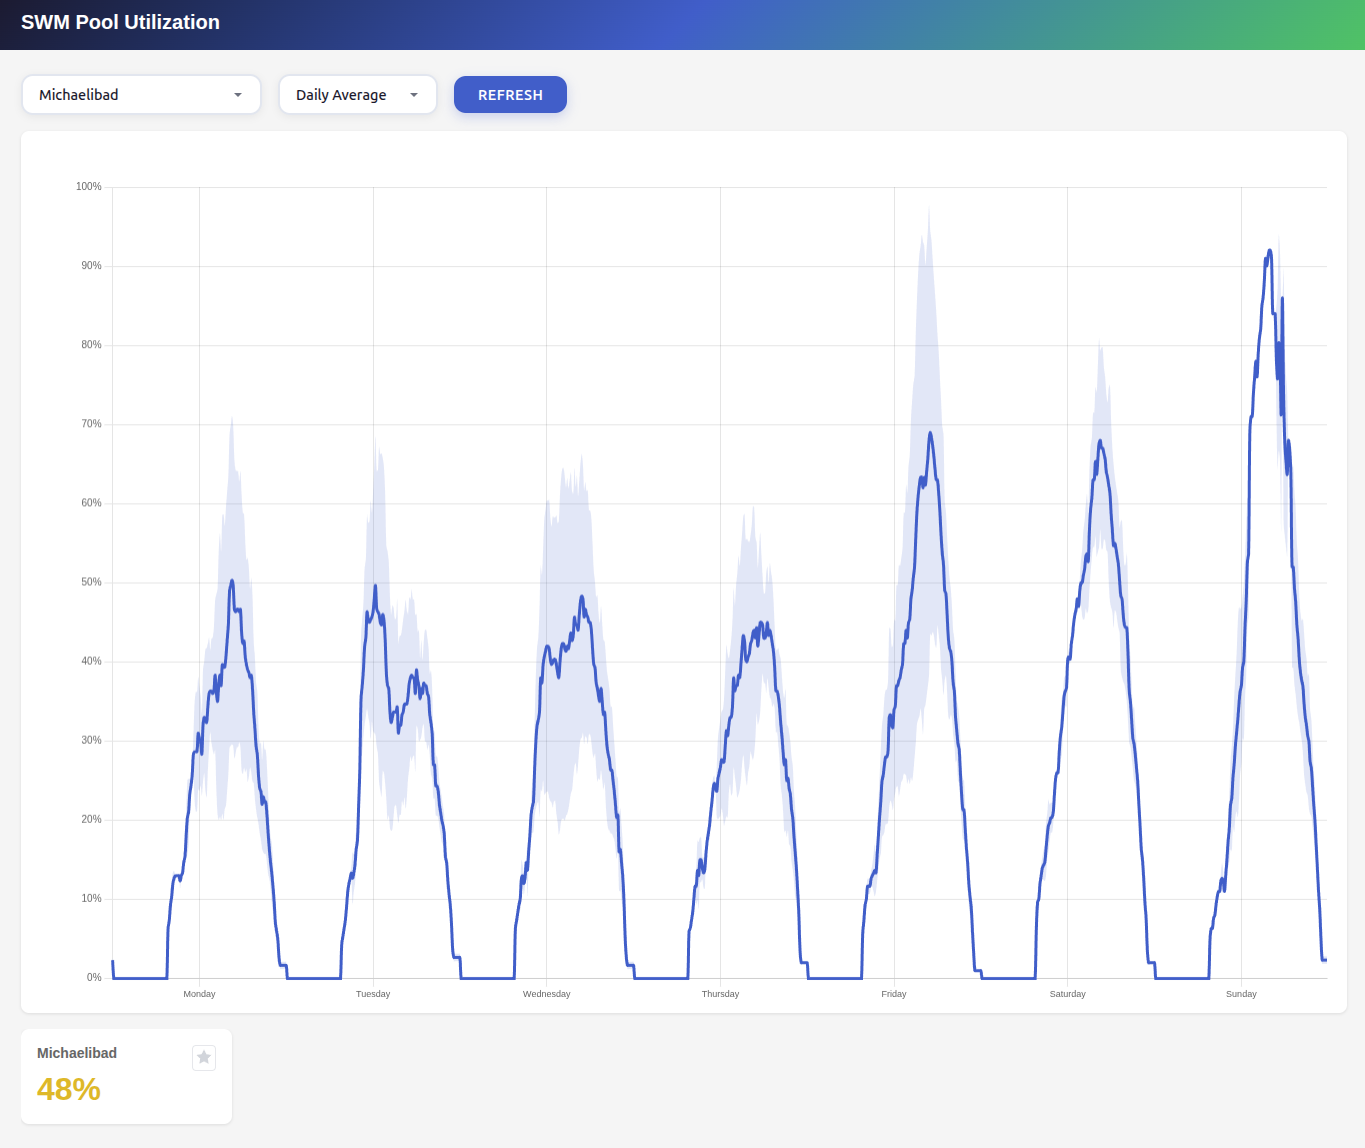
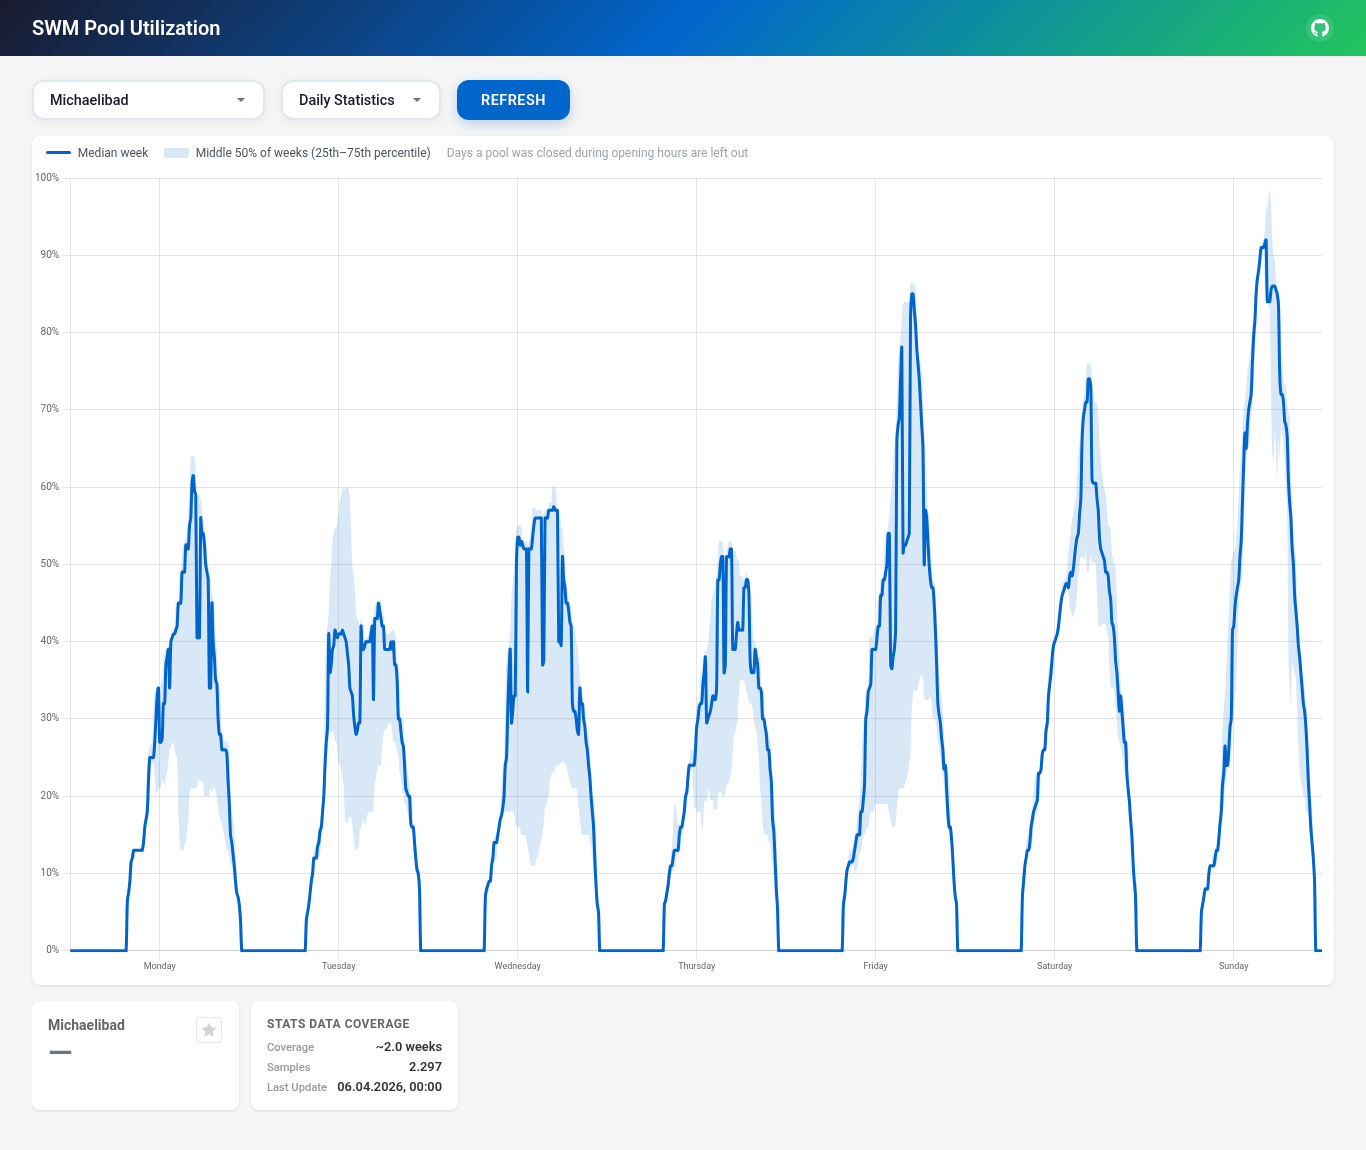
README: new screenshots of the current UI on the early-April data; histogram axis label fix
- Dashboard: 3 days, moved back to 10-12 April 2026 with the time navigator
  (hover Fri 16:40 as in the old image)
- Heatmap: readings up to 15 April 2026, per-pool colours, pointer on the
  Dante winter pool with its histogram in the row neighbour's slot
- Daily statistics: Michaelibad, readings up to 5 April 2026
- PoolHistogram: keep the right end of the x axis free for "% full", so a
  tick there (e.g. 30) no longer overlaps it

diff --git a/frontend/src/components/PoolHistogram.vue b/frontend/src/components/PoolHistogram.vue
@@ -91,9 +91,14 @@ const bars = computed(() => counts.value.flatMap((c, i) => {
   }]
 }))
 
+// Room kept free at the right end of the axis for the "% full" label, so a tick
+// there (e.g. 30 when the bars end at 30%) does not run into it.
+const UNIT_LABEL_W = 34
+
 const xTicks = computed(() => {
   const step = domainMax.value <= 20 ? 2 : domainMax.value <= 50 ? 5 : 10
   return Array.from({ length: Math.floor(domainMax.value / step) + 1 }, (_, i) => i * step)
+    .filter(t => X(t) <= width.value - PAD.r - UNIT_LABEL_W)
 })
 
 const markers = computed(() => {

diff --git a/README.md b/README.md
@@ -4,15 +4,17 @@ A monitoring application that tracks historical pool utilization from SWM (Stadt
 
 [![Pool Dashboard](res/pool_dashboard_20260412_1.png)](http://grid.resolve.bar:8086/)
 
+The chart here is moved back to 10–12 April 2026 with the time navigator below it, which shows one bar per day over the whole recorded history.
+
 ### Heatmap
 ![Heatmap](res/heatmap.png)
 
-The heatmap view shows the typical weekly utilization in 30 minute intervals, based on all readings since recording began or, switchable, on a rolling season (the last 60 days).
+The heatmap view shows the typical weekly utilization in 30 minute intervals, based on all readings since recording began or, switchable, on a rolling season (the last 60 days). The screenshot uses the readings up to 15 April 2026 and each pool's own colour range. The pointer is on the Dante winter pool, so its histogram takes the place of its row neighbour and the row's colour keys are open.
 
 ### Daily Statistics
 ![Daily Statistics](res/dashboard_daily_average_michaelibad.png)
 
-The Daily Statistics view derives general per week day statistics from historical data.
+The Daily Statistics view derives general per week day statistics from historical data (screenshot: readings up to 5 April 2026).
 
 
 ## Quick Start
